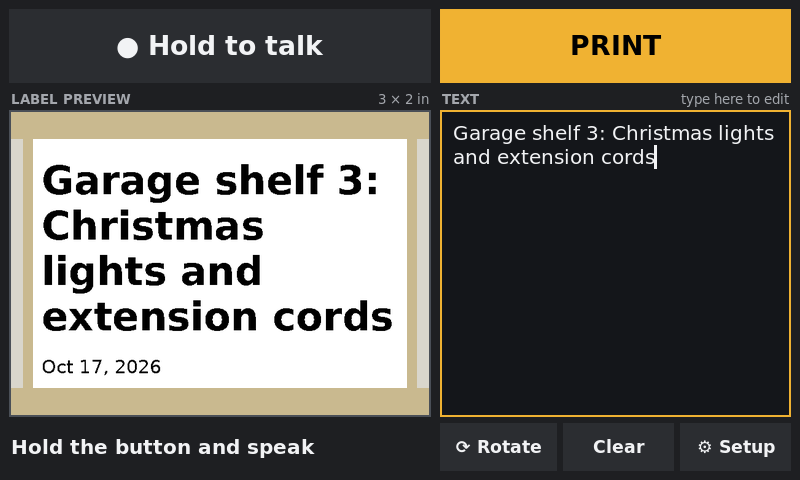
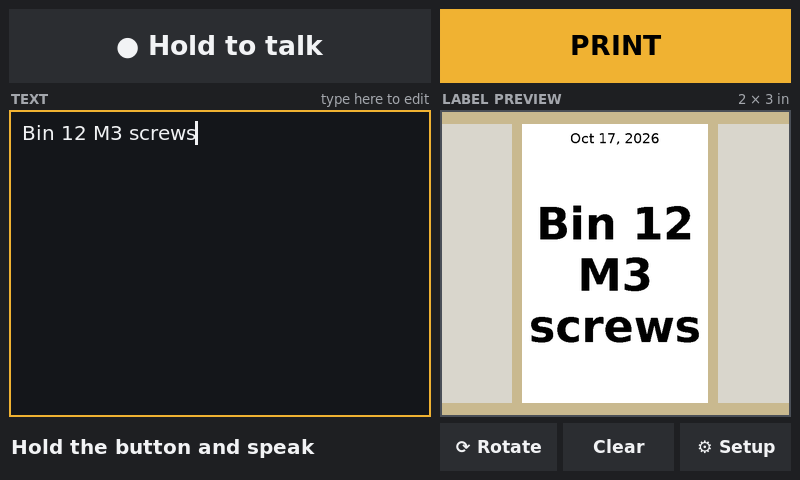
Text box on the left, label preview on the right

diff --git a/labelbox/app.py b/labelbox/app.py
@@ -222,47 +222,45 @@ class App:
         cap_font, cap_bold = font(15), font(15, True)
 
         cap = tk.Frame(body, bg=BG)
-        cap.grid(row=1, column=0, sticky="ew", padx=(0, pad))
+        cap.grid(row=1, column=1, sticky="ew")
         tk.Label(cap, text="LABEL PREVIEW", bg=BG, fg=MUTED, font=cap_bold,
                  anchor="w").pack(side="left")
         self.size_caption = tk.Label(cap, text="", bg=BG, fg=MUTED, font=cap_font, anchor="e")
         self.size_caption.pack(side="right")
         tcap = tk.Frame(body, bg=BG)
-        tcap.grid(row=1, column=1, sticky="ew")
+        tcap.grid(row=1, column=0, sticky="ew", padx=(0, pad))
         tk.Label(tcap, text="TEXT", bg=BG, fg=MUTED, font=cap_bold,
                  anchor="w").pack(side="left")
         tk.Label(tcap, text="type here to edit", bg=BG, fg=MUTED, font=cap_font,
                  anchor="e").pack(side="right")
 
-        # Left box: the label drawn on its backing paper.
+        # Right box: the label drawn on its backing paper.
         self.canvas = tk.Canvas(body, bg=LINER, width=1, height=1, highlightthickness=2,
                                 highlightbackground=INPUT_EDGE)
-        self.canvas.grid(row=2, column=0, sticky="nsew", padx=(0, pad))
+        self.canvas.grid(row=2, column=1, sticky="nsew")
         self.canvas.bind("<Configure>", lambda e: self.schedule_preview())
 
-        # Right box: a dark input, so it can't be mistaken for the white label.
+        # Left box: a dark input, so it can't be mistaken for the white label.
         self.text = tk.Text(body, width=1, height=1, wrap="word", font=font(22),
                             bg=INPUT_BG, fg=FG, insertbackground=FG, insertwidth=3,
                             undo=True, relief="flat", padx=10, pady=8,
                             highlightthickness=2, highlightbackground=INPUT_EDGE,
                             highlightcolor=ACCENT, selectbackground=ACCENT,
                             selectforeground="#000000")
-        self.text.grid(row=2, column=1, sticky="nsew")
+        self.text.grid(row=2, column=0, sticky="nsew", padx=(0, pad))
         self.text.bind("<<Modified>>", self._text_changed)
         self.placeholder = tk.Label(self.text, text="Hold to talk, or type the label text",
                                     bg=INPUT_BG, fg=MUTED, font=font(19), anchor="nw",
                                     justify="left", wraplength=1)
         self.placeholder.bind("<Button-1>", lambda e: self.text.focus_set())
-        self.text.bind("<Configure>", lambda e: self.placeholder.configure(
-            wraplength=max(50, e.width - 30)))
+        self.text.bind("<Configure>", lambda e: (
+            self.placeholder.configure(wraplength=max(50, e.width - 30)),
+            self.status.configure(wraplength=max(100, e.width - 4))))
 
         # Bottom row: status message (left), Rotate / Clear / Setup (right).
         self.status = tk.Label(body, text="", bg=BG, fg=FG, font=font(22, True),
                                anchor="w", justify="left")
         self.status.grid(row=3, column=0, sticky="ew", padx=(0, pad), pady=(gap, 0))
-        self.canvas.bind("<Configure>", lambda e: (
-            self.status.configure(wraplength=max(100, e.width - 4)), self.schedule_preview()),
-            add="")
         row = tk.Frame(body, bg=BG)
         row.grid(row=3, column=1, sticky="ew", pady=(gap, 0))
         btn = dict(font=font(20, True), relief="flat", bd=0, highlightthickness=0,

diff --git a/labelbox/README.md b/labelbox/README.md
@@ -58,7 +58,7 @@ No resistor is needed on the switches; the Pi's internal pull-ups are used. The 
    ```
    If you used the second connector, add `,dsi0` to the end of that line.
 
-The screen is landscape (800×480). The app detects this and puts the label preview on the left, with the text, options and buttons on the right. On a tall screen it stacks them instead.
+The screen is landscape (800×480). The app detects this and puts the text box on the left and the label preview on the right. On a tall screen it stacks them instead.
 
 ## Microphone setup (gooseneck USB mic)
 
@@ -108,7 +108,7 @@ Logs: `journalctl -u labelbox -f`.
 |---|---|
 | <img src="docs/screen.png" alt="Main screen" width="400"> | <img src="docs/setup.png" alt="Setup screen" width="400"> |
 
-The main screen has **Hold to talk** (top left) and **PRINT** (top right). Under them, the **label preview** on the left shows the label exactly as it will print, drawn on its backing paper. The dark **text box** on the right is where you edit the words. The status message sits under the preview, and **⟳ Rotate**, **Clear** and **⚙ Setup** sit under the text box.
+The main screen has **Hold to talk** (top left) and **PRINT** (top right). Under them, the dark **text box** on the left is where you edit the words, and the **label preview** on the right shows the label exactly as it will print, drawn on its backing paper. The status message sits under the text box, and **⟳ Rotate**, **Clear** and **⚙ Setup** sit under the preview.
 
 | Do this | To |
 |---|---|
